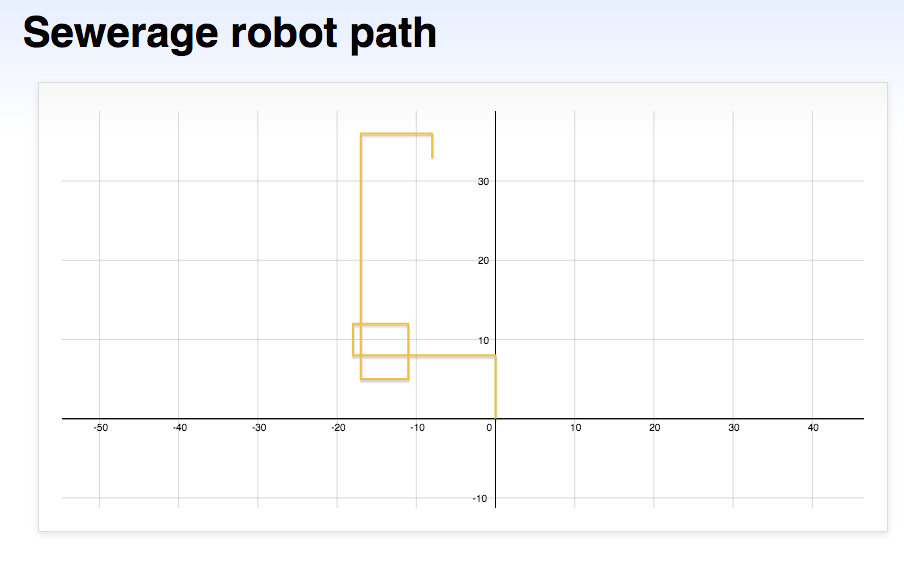
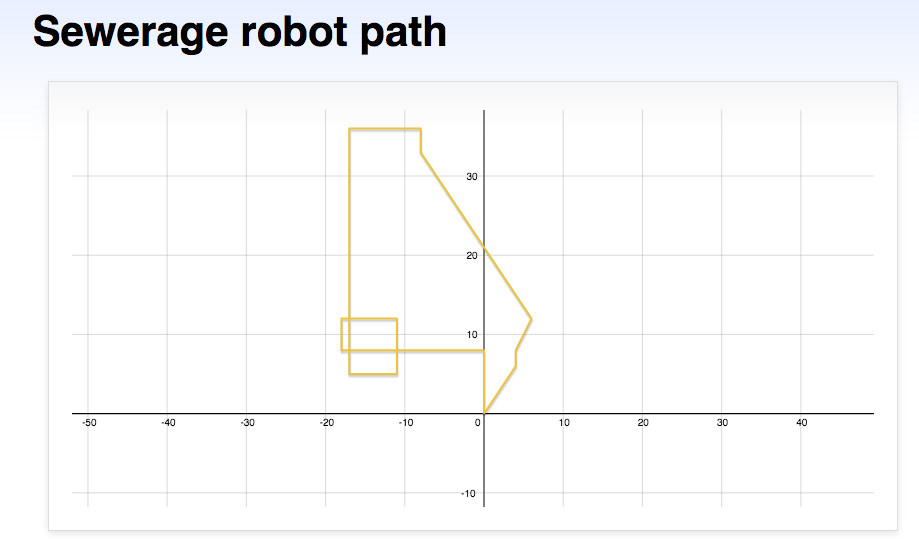
readme update

diff --git a/design_map/map/index.html b/design_map/map/index.html
@@ -17,14 +17,14 @@
     <script language="javascript" type="text/javascript" src="lib/jquery.colorhelpers.js"></script>
     <script language="javascript" type="text/javascript" src="lib/jquery.flot.js"></script>
     <script language="javascript" type="text/javascript" src="lib/jquery.flot.navigate.js"></script>
-	
+
     <!-- this plugin -->
     <script language="javascript" type="text/javascript" src="lib/jquery.flot.coordinate.js"></script>
     <script type="text/javascript">
 
         $(function () {
             var data = [
-                [[0,0],[0,8],[-18,8],[-18,12],[-11,12],[-11,5],[-17,5],[-17,36],[-8,36],[-8,33],]
+                [[0,0],[0,8],[-18,8],[-18,12],[-11,12],[-11,5],[-17,5],[-17,36],[-8,36],[-8,33],[6,12], [4,8], [4,6] ,[0,0]]
             ];
 
             var options = {
@@ -56,7 +56,7 @@
 
             $(document).ready(function () {
                 $.plot("#canvas-wrapper", data, options);
-                
+
                 $("input[type=radio]").change(function (event) {
                     var values = [];
                     $.each($("input[type=radio]"), function (index, chk) {
@@ -84,11 +84,11 @@
         <div class="demo-container">
             <div id="canvas-wrapper" class="demo-placeholder"></div>
         </div>
-        
-        
+
+
     </div>
 
-    
+
 
 </body>
 </html>

diff --git a/README.md b/README.md
@@ -1,11 +1,11 @@
-# sewerage robot
+# Sewerage robot : path finding algo
 [Lego](http://www.lego.com/) robot for path finding.
 
 It is design for the find sewerage system of the city. Most of the city doesn't have the proper sewer system path. So this robot is design to get the full path of the sewer system, plant it on one end and after some time it will come back to the origin place with full map.
 
 ![Screenshot](imgs/robo-map.png)
 
-It was a college project for fun and thesis work. Voila!
+It was my college project for fun and minor thesis work. Voila!
 
 ### Compile & Run
 ```sh
